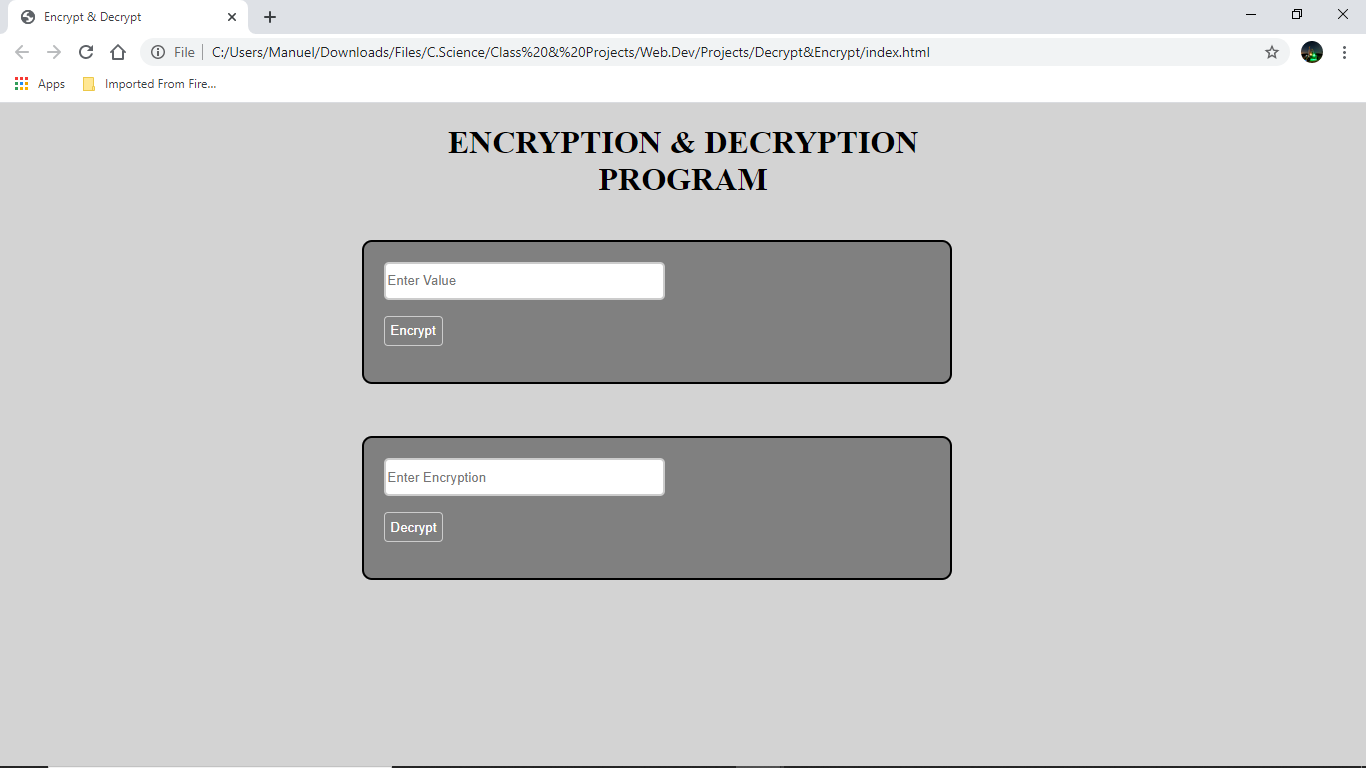
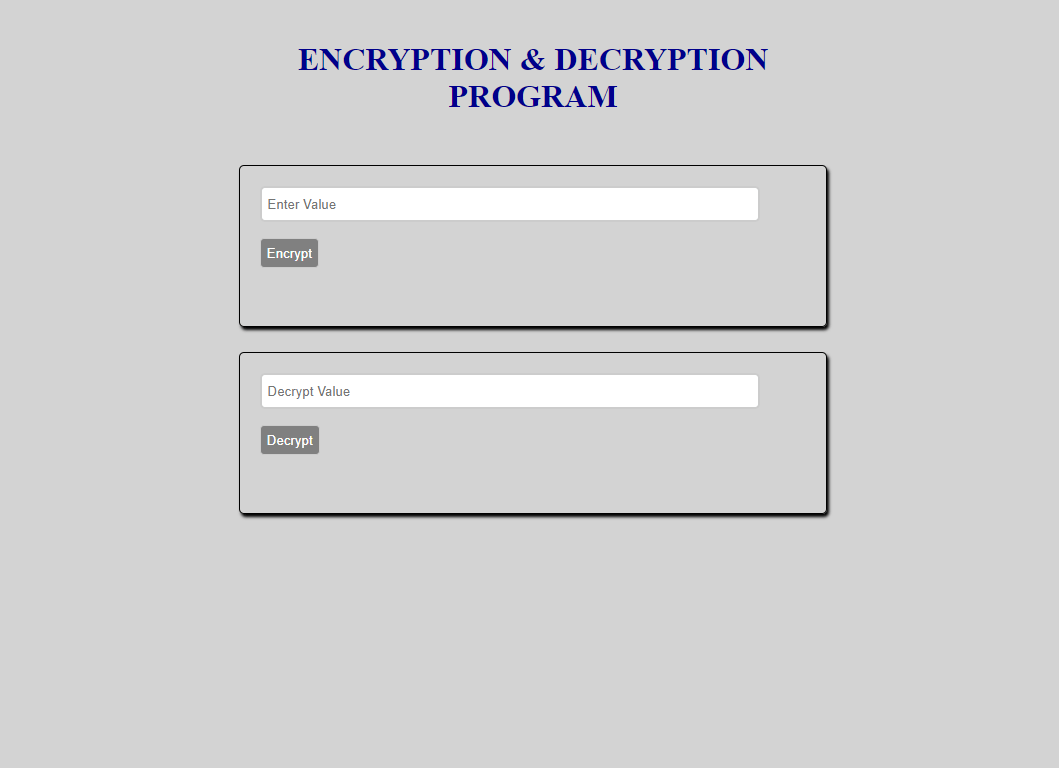
Add files via upload

diff --git a/index.html b/index.html
@@ -34,15 +34,15 @@
 <!-- CCS CODE -->
 <style>
 	body{
-		padding:0px;
+		padding: 20px 0px;
 		margin: 0px;
 		box-sizing: border-box;
 		overflow-x: hidden;
 		background-color: lightgrey;
 	}
 	h1 {
-		text-align:center;
 		color:darkblue;
+		text-align:center;
 	}
 	.flex1 {
 		width: 40%;
